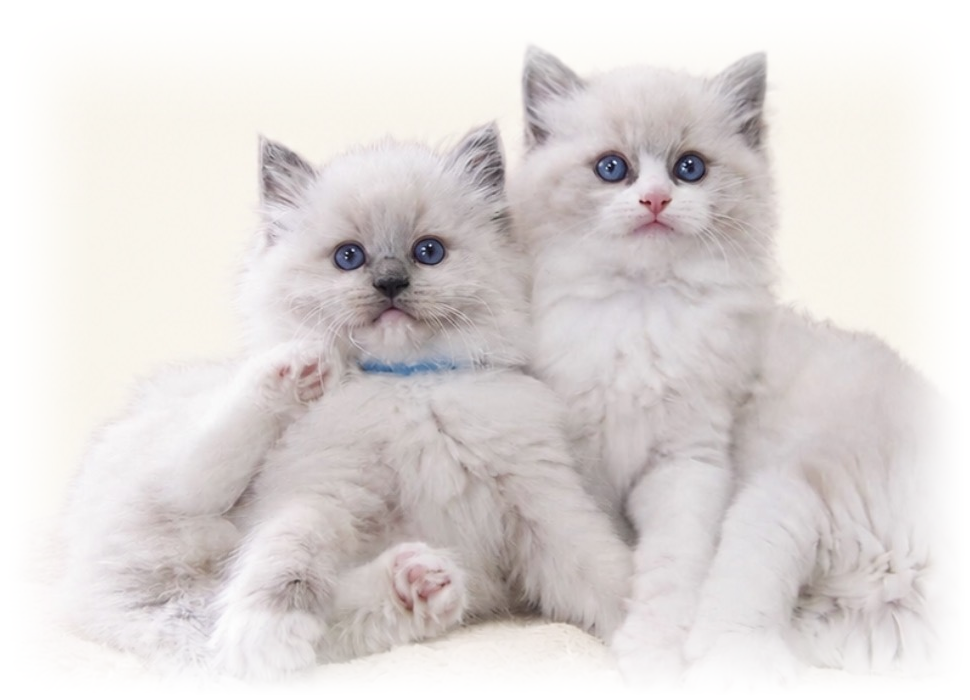
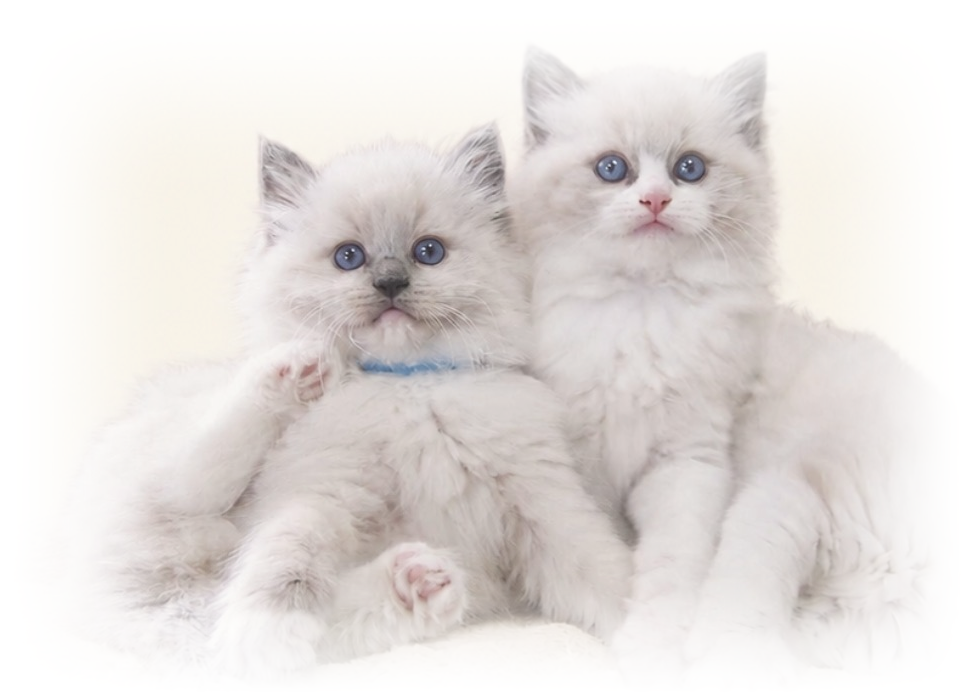
Soften the kitten photo into a gentle ambient accent like the portrait above
The photo had grown too bold and boxy: near-opaque with only its bottom
edge feathered, and its own cool pale-gray backdrop clashed with the
section's warmer beige tint wherever it showed at strength, leaving
visible edges on top and sides.

Regrade the photo warmer to match --s-tint, feather all four sides (not
just the bottom) with a wider, gentler falloff, and drop the CSS opacity
back down closer to the cat portrait's own soft-accent treatment
(0.85/0.78 -> 0.62/0.58). Widen the section's cream-to-tint gradient to
match the wider feather, and lift the heading closer to the kittens now
that they read as a soft backdrop rather than a solid photo.

Claude-Session: https://claude.ai/code/session_01XtEfWMbx1uSpXVwGytVkAw

diff --git a/concept.css b/concept.css
@@ -660,23 +660,23 @@ body.concept .work-photo-bg img {
 body.concept .section.bg-soft.reasons-section {
     position: relative;
     overflow: visible;
-    /* The photo is translucent, so the section's own flat tint still shows
-       through and would otherwise cut a hard line right where this section
-       meets the lighter one above. Fade the background itself over the same
-       span so there's no seam left for the photo to cross. */
-    background: linear-gradient(to bottom, var(--s-cream) 0, var(--s-tint) 160px, var(--s-tint) 100%);
+    /* The photo now carries its own warm-toned, wide feather (color-graded
+       and faded on all four sides to melt into the page), so it no longer
+       needs a hard color to land on -- a gentle cream-to-tint fade is enough
+       to keep the seam above this section soft. */
+    background: linear-gradient(to bottom, var(--s-cream) 0, var(--s-tint) 220px, var(--s-tint) 100%);
 }
 body.concept .reasons-photo-bg {
     display: block;
     position: absolute;
-    top: -115px;
+    top: -95px;
     left: 50%;
     transform: translateX(-50%);
     width: clamp(520px, 54vw, 780px);
     height: auto;
     pointer-events: none;
     z-index: 0;
-    opacity: 0.85;
+    opacity: 0.62;
 }
 body.concept .reasons-photo-bg img {
     display: block;
@@ -687,14 +687,14 @@ body.concept .reasons-section .section-header,
 body.concept .reasons-section .grid { position: relative; z-index: 1; }
 /* Give the kittens room to be seen before the heading starts, instead of
    the text sitting right over their faces. */
-body.concept .reasons-section .section-header { margin-top: 130px; }
+body.concept .reasons-section .section-header { margin-top: 95px; }
 @media (max-width: 720px) {
     body.concept .reasons-photo-bg {
         width: 108vw;
-        top: -40px;
-        opacity: 0.78;
+        top: -30px;
+        opacity: 0.58;
     }
-    body.concept .reasons-section .section-header { margin-top: 70px; }
+    body.concept .reasons-section .section-header { margin-top: 55px; }
 }
 
 body.concept .accordion-item {
